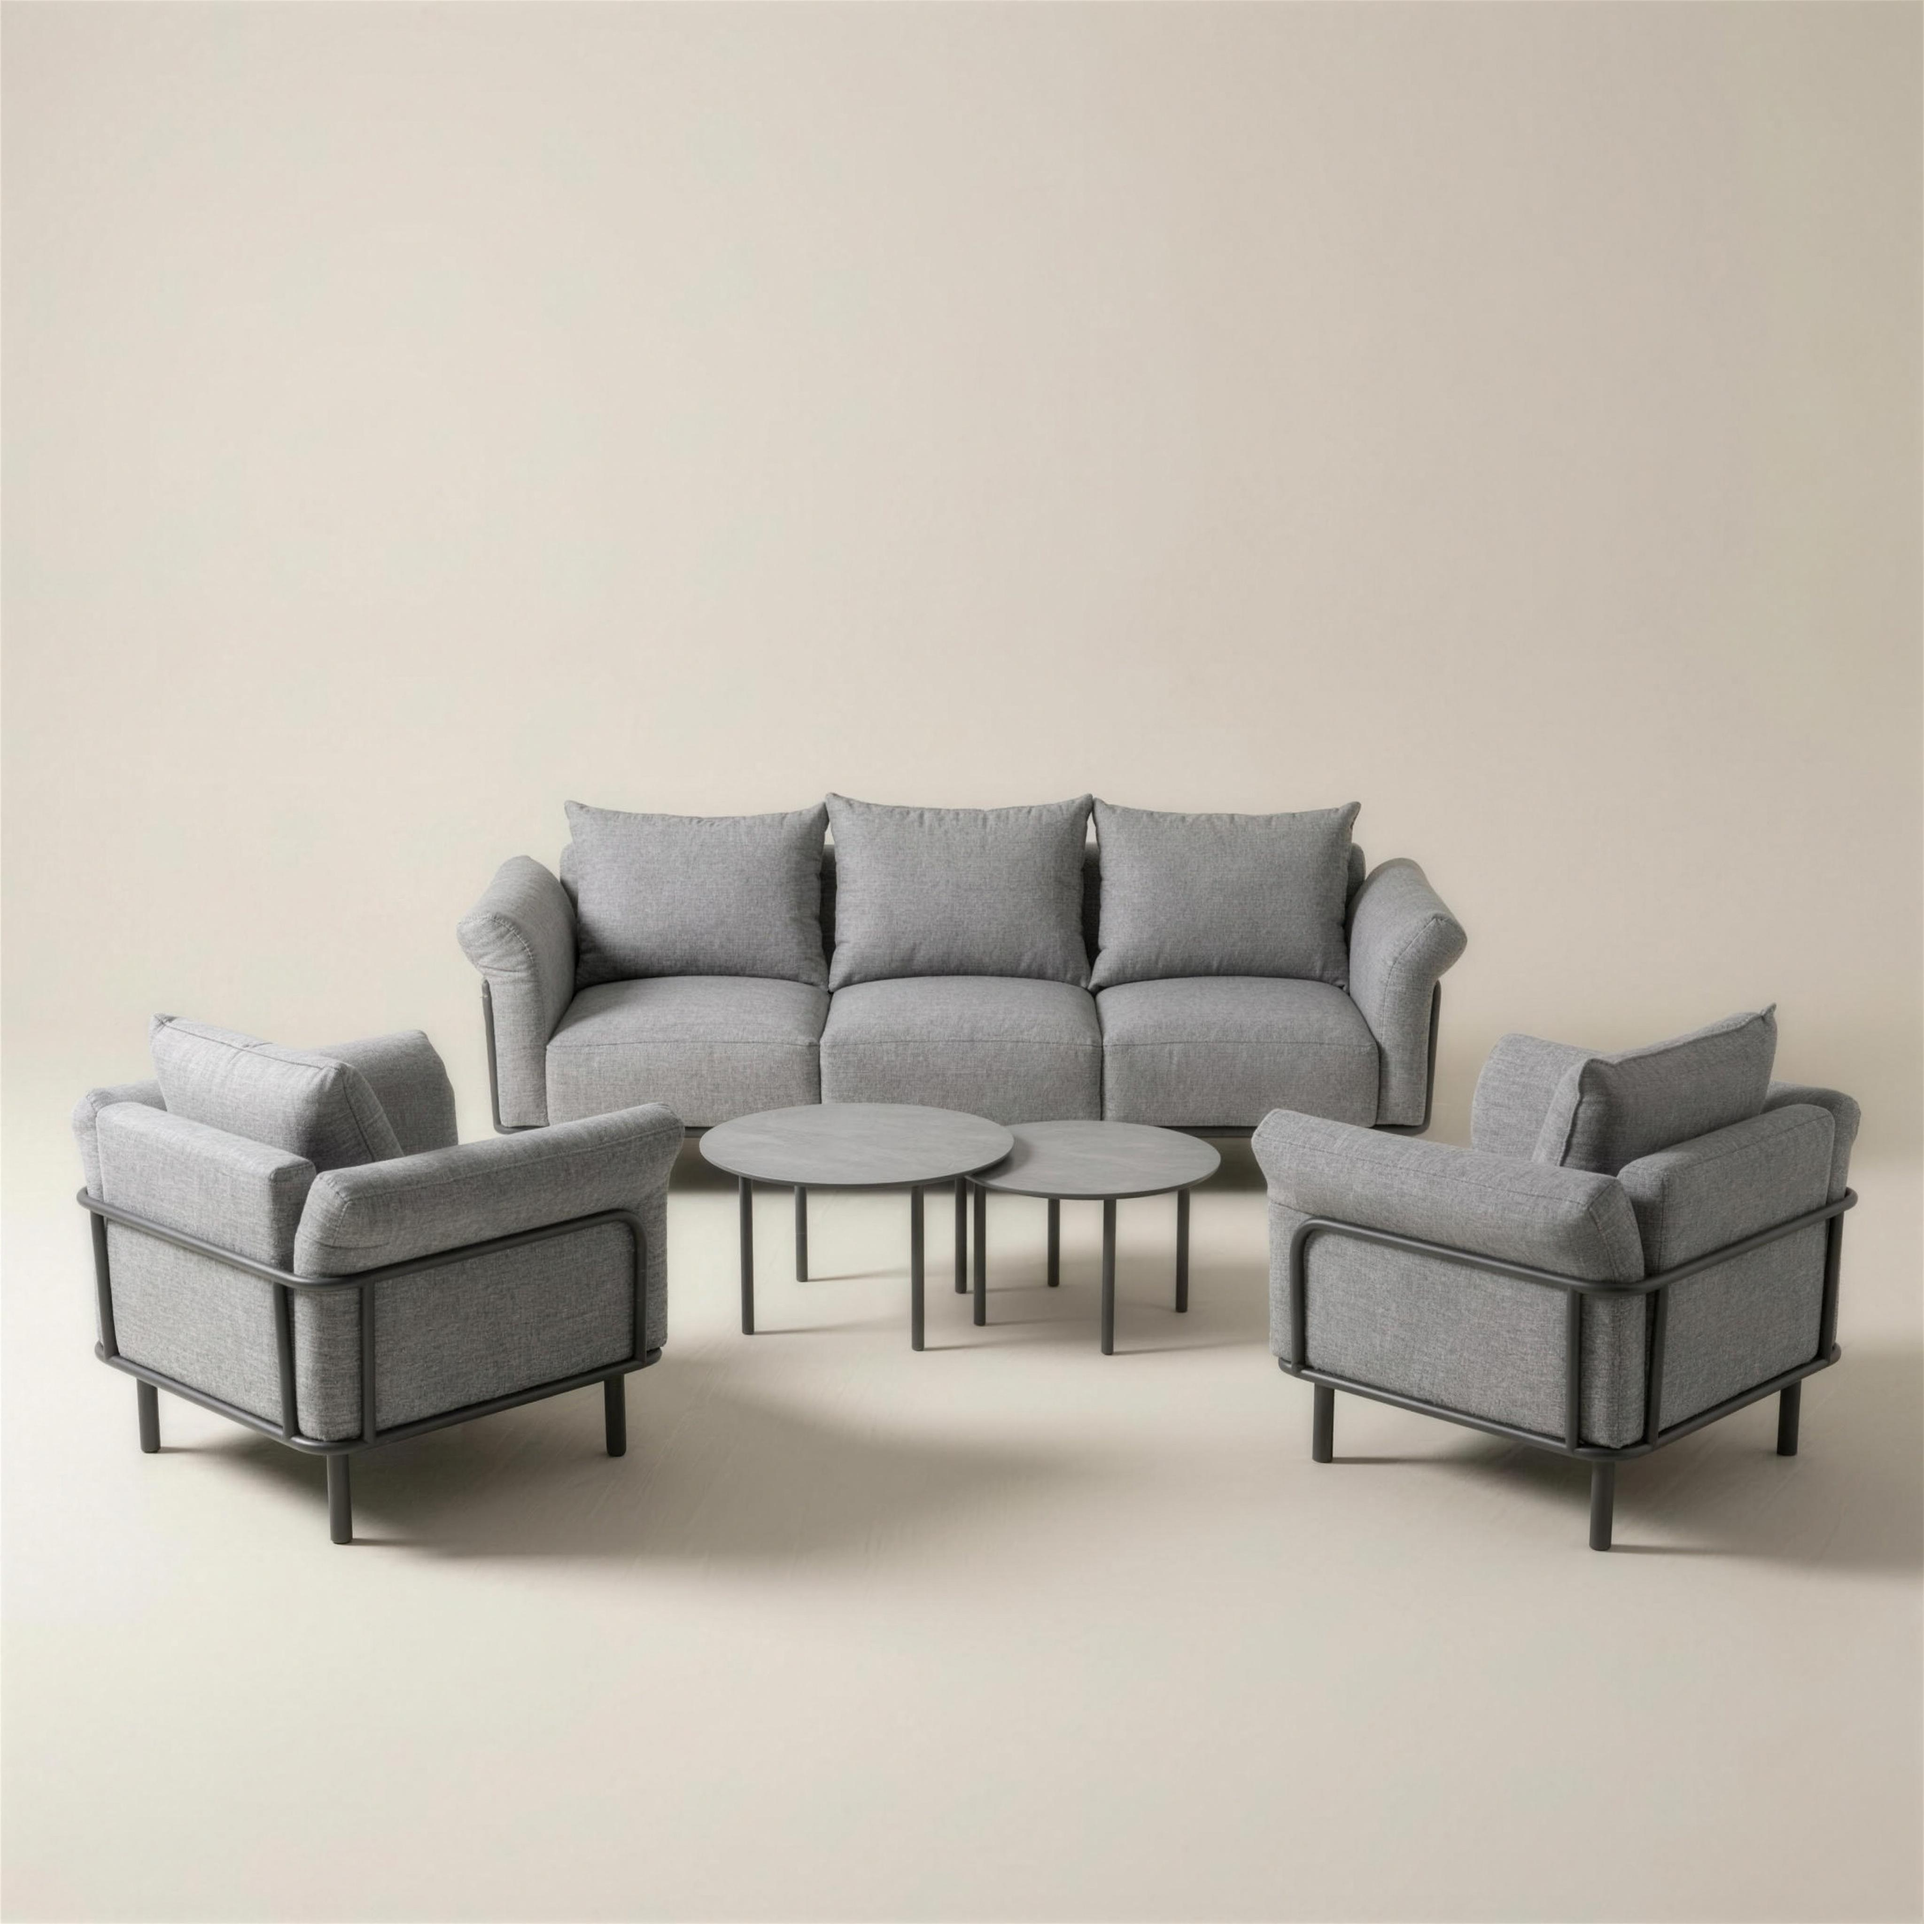
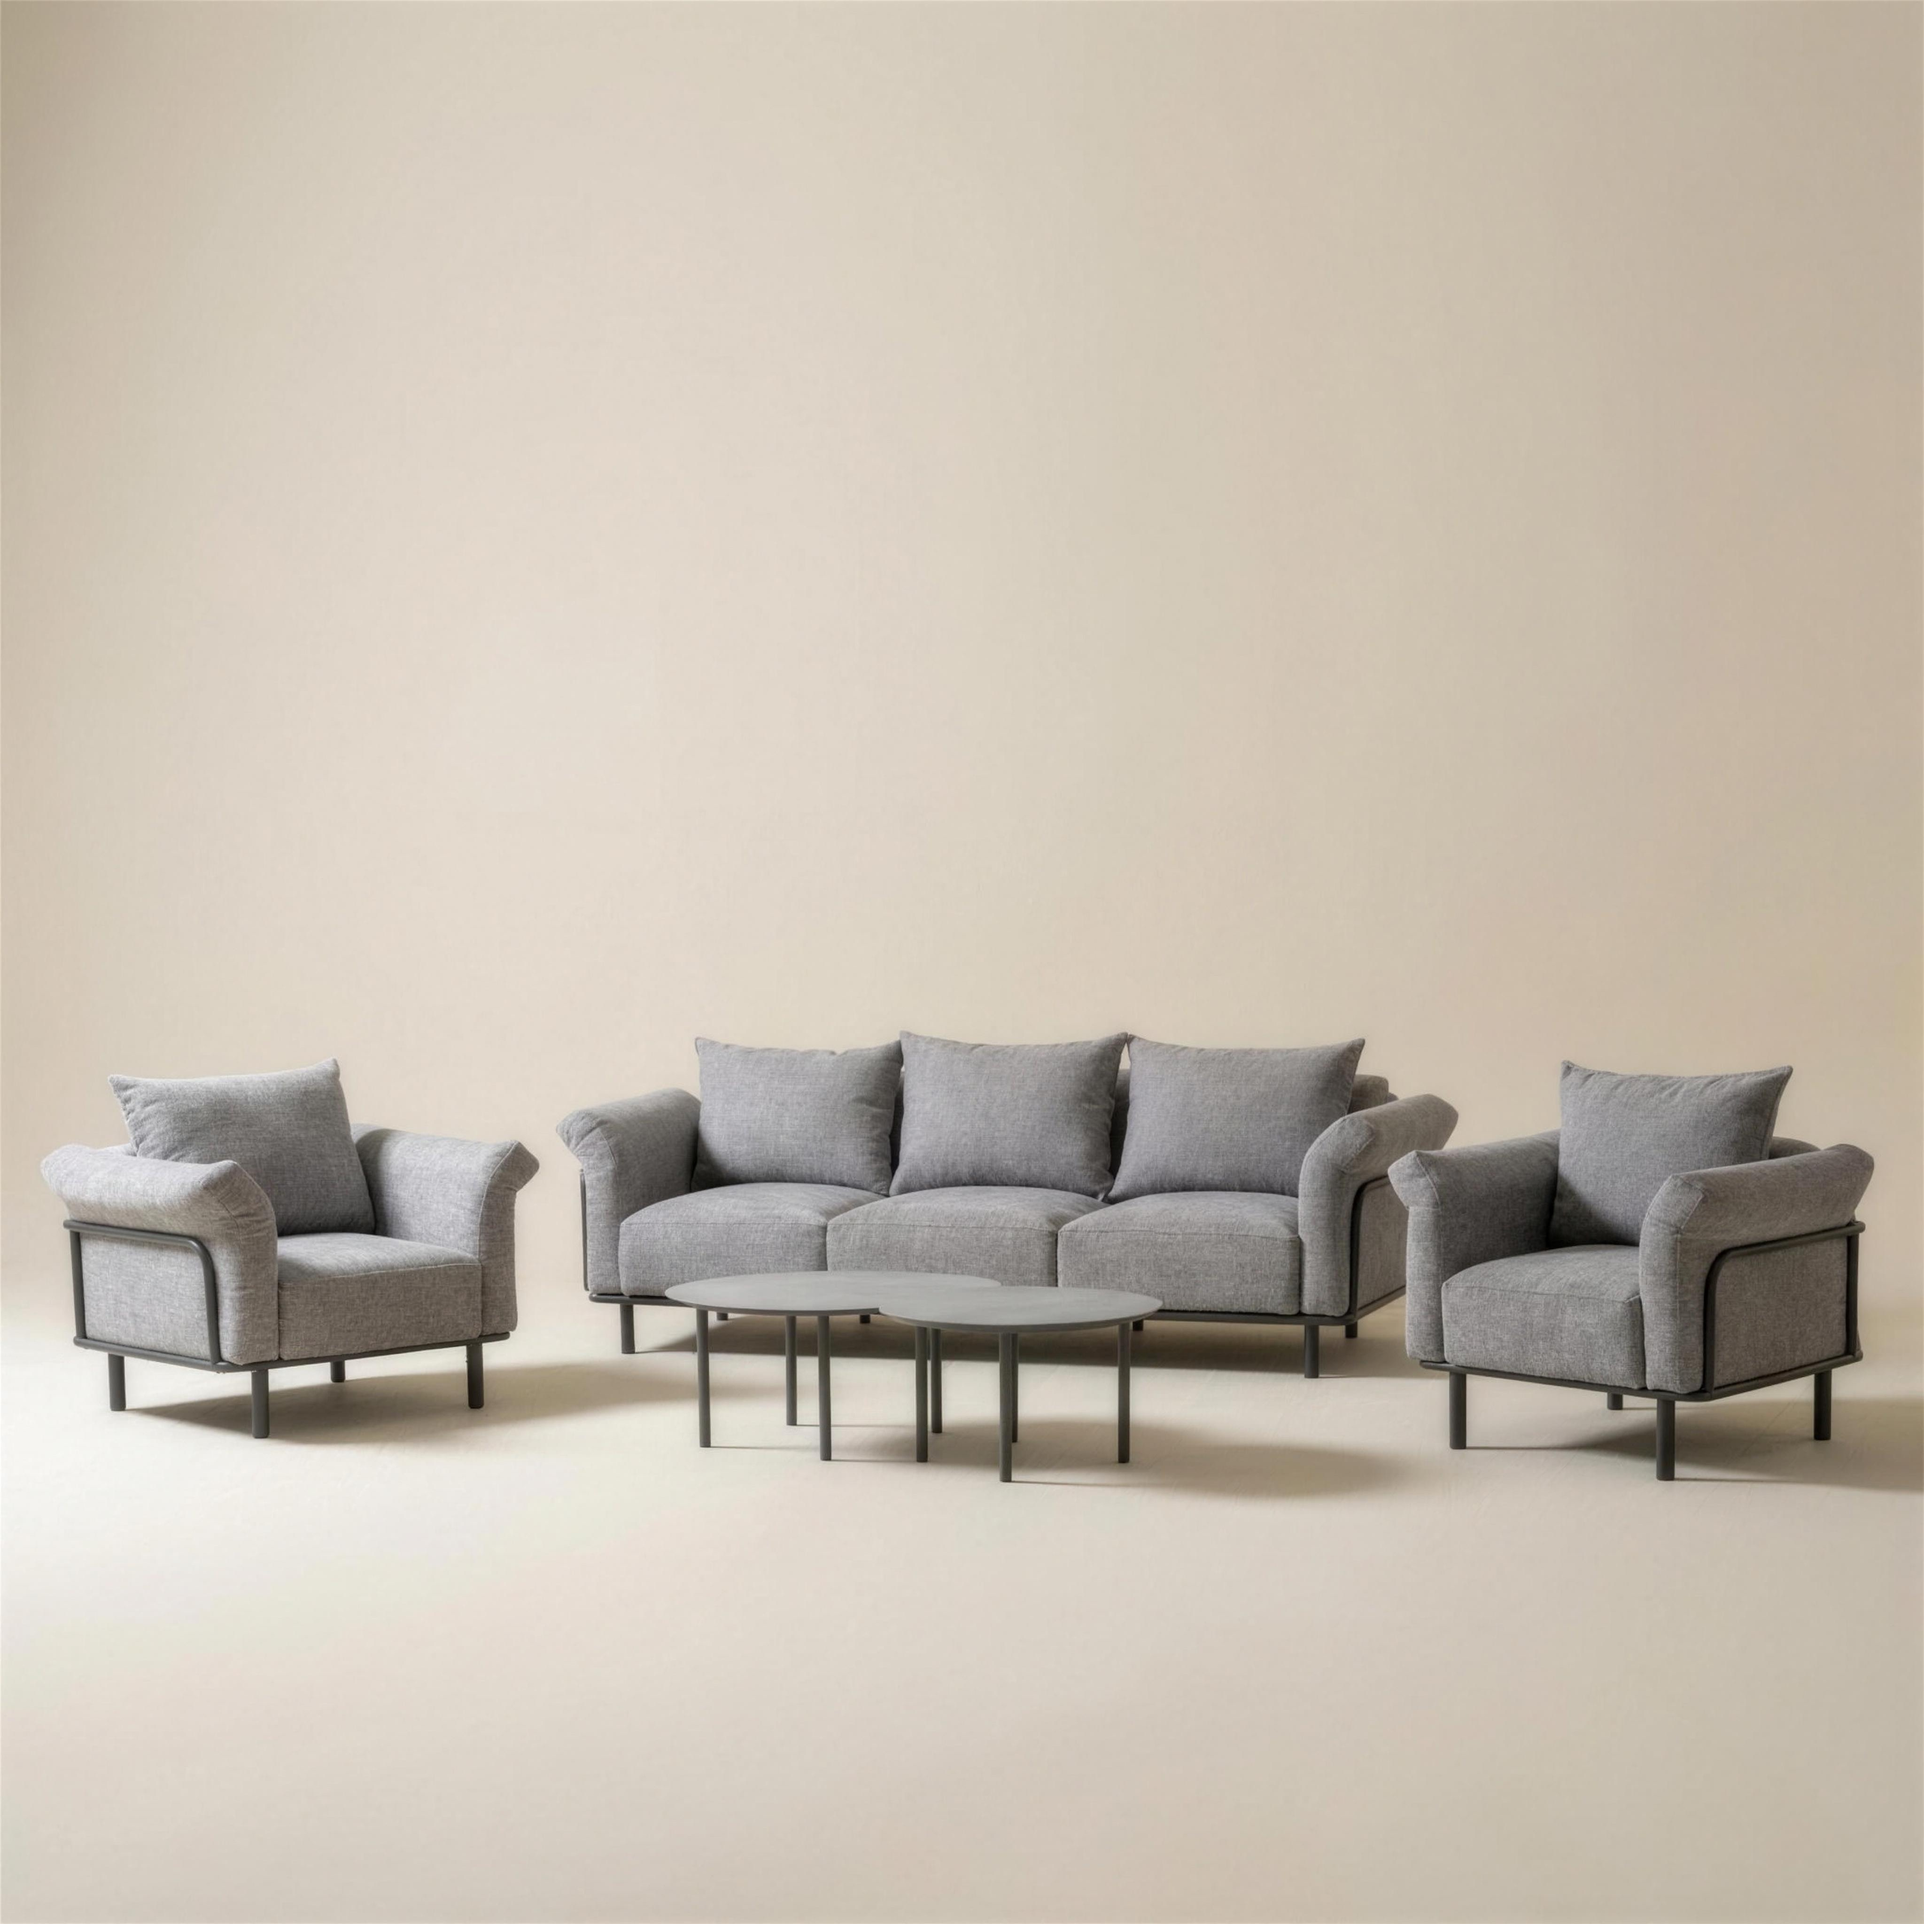
feat(imagen): Brandon 3 pl. y 2 pl. rehechos con el metodo nuevo — jacquard recuperado
Primeras dos galerias que pasan el pipeline completo: ficha de verdad escrita a
resolucion nativa -> prompts que nombran el jacquard y niegan lo que el modelo
inventa -> QA contra la ficha -> verificacion.

- Brandon 3 pl. (5.249 EUR): 5/5 aprobadas a la primera
- Brandon 2 pl. (4.679 EUR): el QA caz o un ASMR con el jacquard demasiado tenue
  (se leia como rayas verticales) y se regenero ANTES de publicar. Es justo lo
  que antes no pasaba.
- Ambas verificadas: ACTIVE, 5 media, READY, >=3311 px, 0 alt vacios
- FICHAS_VERDAD.md: fichas de la familia Brandon + registro de galerias rehechas

Changed region(s): [[0.0, 0.4062, 1.0, 0.8438], [0.0, 0.0, 0.1562, 0.4375]]

diff --git a/docs/santavila/FICHAS_VERDAD.md b/docs/santavila/FICHAS_VERDAD.md
@@ -39,7 +39,17 @@
 | **Bolonia XL 3 pl.** `set-jardin-3-plazas-contemporaneo-...-mesa-2` | aluminio azul marino | azul claro grisáceo | **LAMAS de aluminio azul marino · marco perimetral más ancho** | reposapiés **NO** incluido |
 | **CUPRA 3 pl.** `set-jardin-3-plazas-sofisticado-...-mesa-2` | aluminio tórtola mate | verde salvia | **LAMAS de aluminio tórtola · lamas ESTRECHAS y numerosas, dentro de marco más ancho** | 2 reposapiés **NO** incluidos |
 | **Albania 3 pl.** `...-mesa-3` | tórtola | verde salvia | **NO DETERMINADO** — el export de imágenes apunta a otro producto; falta la foto real de esta ficha | — |
-| Balinesa 198 · Balinesa 160 · Parasol Roma · LEISA · Tumbona | — | — | **NO DETERMINADO** — falta localizar la foto original | — |
+| **Brandon 3 pl.** `set-jardin-aluminio-3-plazas-...` | aluminio antracita, perfil fino | **chenille gris con JACQUARD tono sobre tono** (motivo irregular tipo pinceladas/grafismos en gris claro) — NO liso | **2 mesas redondas nido · LISO gris cemento · mate · canto fino · patas cilíndricas finas** | — |
+| **Brandon 2 pl.** `set-jardin-aluminio-2-plazas-...` | ídem | ídem (jacquard) | ídem | — |
+| **Sofá 220×90** `sofa-terraza-aluminio-3-plazas-...` | ídem | ídem (jacquard) | — (pieza suelta, sin mesa) | — |
+| Balinesa 198 · Balinesa 160 · Parasol Roma · LEISA · Tumbona | — | — | **PENDIENTE** — originales localizadas en `images_optimized/` e `images_balliu/` del repo, falta auditarlas | — |
 
 ## Estado de auditoría de lo ya publicado
-Ver `JOURNAL.md`, entradas `2026-07-29 (E)` y `(F)`.
+Ver [`AUDITORIA_FIDELIDAD_2026-07-29.md`](AUDITORIA_FIDELIDAD_2026-07-29.md) y
+[`LECCIONES_FIDELIDAD.md`](LECCIONES_FIDELIDAD.md).
+
+## Galerías rehechas con el método nuevo (ficha → generar → QA contra ficha → identidad → publicar)
+| Ficha | € | Fecha | Notas |
+|---|---|---|---|
+| **Brandon 3 pl.** | 5.249 | 2026-07-30 | 5/5 aprobadas a la primera. Jacquard correcto en las 5 |
+| **Brandon 2 pl.** | 4.679 | 2026-07-30 | El QA rechazó el ASMR (jacquard demasiado tenue, leído como rayas) y se regeneró antes de publicar |
